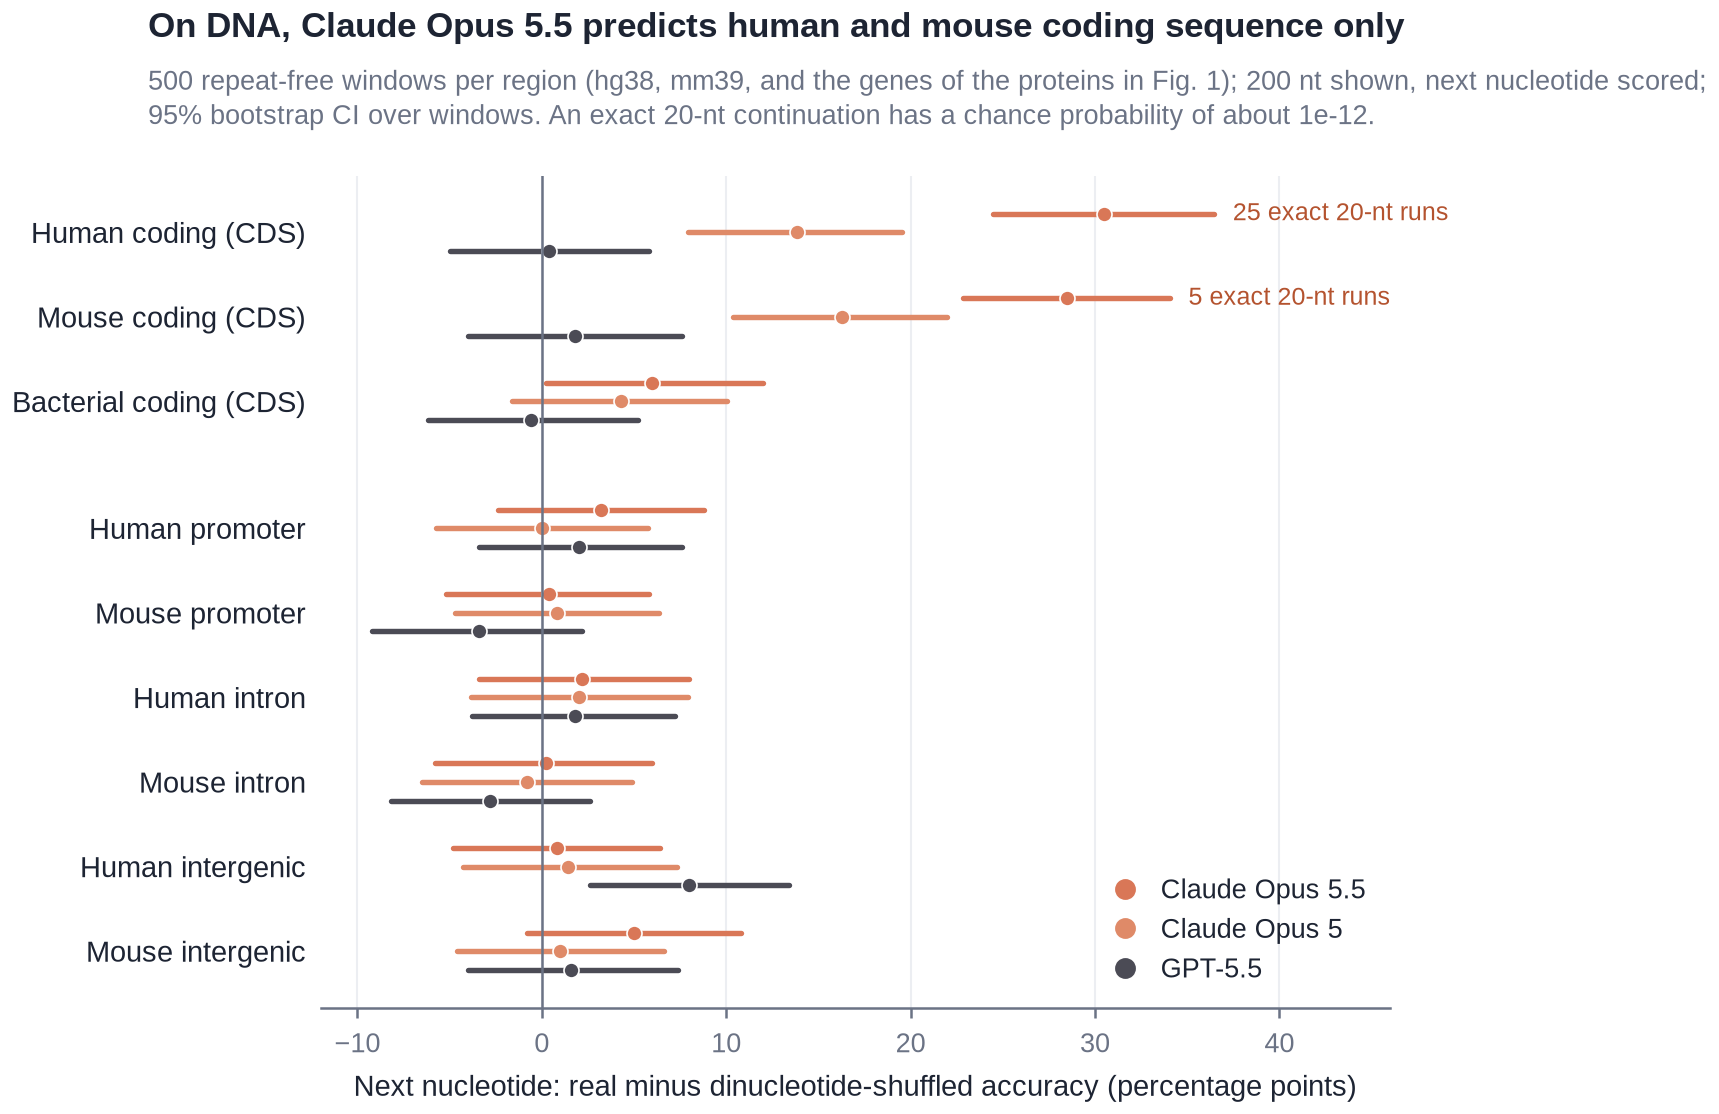
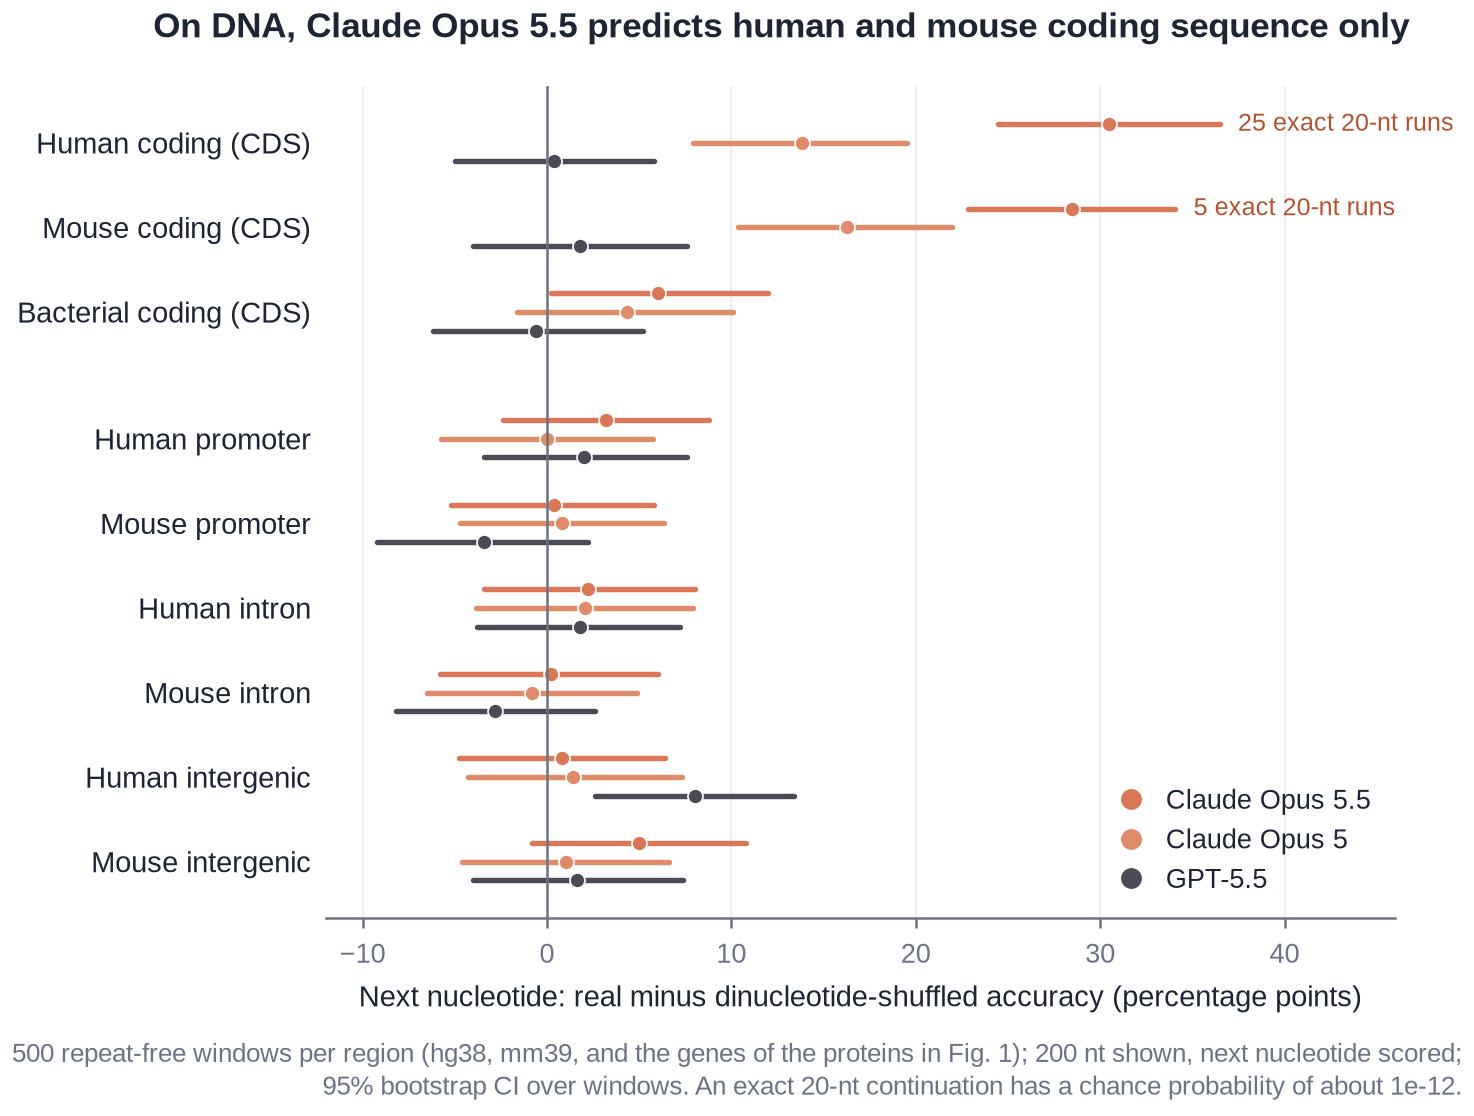
Publish Claude Opus 5.5 was trained on protein sequences at scale
Compare with ProtGPT3: Claude Opus 5.5 matches ProtGPT3-10B on the same
input, shown in Fig 1 and a short table, with all seven protein language
models in a new appendix. Figure notes move below the axes. Move the
post out of preview to /blog/2026/claude-opus-5-5-protein-sequences/ and
redirect the preview URL there.

diff --git a/_pages/bioseq-preview-redirect.html b/_pages/bioseq-preview-redirect.html
@@ -1,0 +1,18 @@
+---
+layout: none
+permalink: /blog/preview/claude-opus-5-5-protein-sequences/
+sitemap: false
+---
+<!doctype html>
+<html lang="en">
+  <head>
+    <meta charset="utf-8" />
+    <title>Claude Opus 5.5 was trained on protein sequences at scale</title>
+    <meta name="robots" content="noindex" />
+    <link rel="canonical" href="{{ '/blog/2026/claude-opus-5-5-protein-sequences/' | absolute_url }}" />
+    <meta http-equiv="refresh" content="0; url={{ '/blog/2026/claude-opus-5-5-protein-sequences/' | relative_url }}" />
+  </head>
+  <body>
+    <p>This post has moved to <a href="{{ '/blog/2026/claude-opus-5-5-protein-sequences/' | relative_url }}">{{ '/blog/2026/claude-opus-5-5-protein-sequences/' | absolute_url }}</a>.</p>
+  </body>
+</html>

diff --git a/_posts/2026-11-16-claude-opus-5-5-protein-sequences.md b/_posts/2026-11-16-claude-opus-5-5-protein-sequences.md
@@ -5,9 +5,6 @@ description: "A next-amino-acid test on proteins nobody has studied, with a shuf
 date: 2026-11-16
 tags: ['AI', 'biology', 'LLM', 'evaluation']
 categories: blog
-permalink: /blog/preview/claude-opus-5-5-protein-sequences/
-preview: true
-sitemap: false
 bibliography: 2026-11-16-claude-opus-5-5-protein-sequences.bib
 
 toc:
@@ -66,7 +63,7 @@ _styles: |
 ---
 
 <div class="bp-lede" markdown="1">
-**Claude Opus 5.5 was trained on protein sequences, at scale.** On bacterial proteins that no paper describes, it predicts the next amino acid far better than on the same proteins shuffled. No other model we tested does, from OpenAI, Google or seven open-weight labs. The signal grows with the number of sequences in a protein's family, even in families with no papers at all, which is what training on sequence data predicts. It appears with Claude Opus 4.7 and jumps with Opus 5.5. Given the same input, Opus 5.5 also scores above protein language models such as ESM C, ESM3 and ProtGPT2.
+**Claude Opus 5.5 was trained on protein sequences, at scale.** On bacterial proteins that no paper describes, it predicts the next amino acid far better than on the same proteins shuffled. No other model we tested does, from OpenAI, Google or seven open-weight labs. The signal grows with the number of sequences in a protein's family, even in families with no papers at all, which is what training on sequence data predicts. It appears with Claude Opus 4.7 and jumps with Opus 5.5. On this test it matches ProtGPT3-10B, the newest and largest open protein language model of its kind, and scores well above smaller ones.
 </div>
 
 ## Motivation
@@ -88,7 +85,7 @@ The proteins come from 167 Pfam "domain of unknown function" families with no so
 ## Results: only Claude Opus 5.5 predicts them
 
 <figure class="bp-figure" markdown="0">
-  <img src="{{ '/assets/img/llm-bioseq-probe/fig1_protein.png' | relative_url }}" alt="Forest plot of the real-minus-shuffled gap for 17 models; Claude Opus 5.5 at +27.4 points, every non-Claude model between 0 and 3.">
+  <img src="{{ '/assets/img/llm-bioseq-probe/fig1_protein.png' | relative_url }}" alt="Forest plot of the real-minus-shuffled gap: Claude Opus 5.5 at +27.4 points and ProtGPT3-10B at +27.7; every other LLM between 0 and 10.">
   <figcaption>Filled points: the chat prompt. Hollow points: raw next-token continuation of the FASTA text, through a completion endpoint or a prefilled reply, for models that allow it.</figcaption>
 </figure>
 
@@ -107,18 +104,16 @@ A model that learned from sequence data should know big families better than sma
 
 ## Comparison with protein language models
 
-Protein language models are trained only on protein sequences, so they give a reference level for the same test. Given the same input as the LLMs, the residues before the cut, they score well below Claude Opus 5.5:
+Protein language models are trained only on protein sequences, so they set a reference level for the same test. The fairest comparison is ProtGPT3<d-cite key="garibbo2026protgpt3"></d-cite>, released in 2026: like an LLM, it reads a protein left to right and predicts the next residue, and at 10 billion parameters it is the largest open model of its kind. Given the same input, Claude Opus 5.5 matches it:
 
-| Model | Input | Real minus shuffled, points (95% CI) |
-|---|---|---|
-| **Claude Opus 5.5** | residues before the cut | **+27.4** (24.7 to 30.0) |
-| ESM C 600M | residues before the cut | +13.0 (10.8 to 15.2) |
-| ProtGPT2 | residues before the cut | +10.2 (8.3 to 12.2) |
-| ESM3-open 1.4B | residues before the cut | +8.5 (6.5 to 10.7) |
-| ESM-2 650M | residues before the cut | +7.0 (5.2 to 8.8) |
-| ESM-2 650M | the whole protein, one residue masked | +34.6 (31.8 to 37.2) |
+| Model | Real minus shuffled, points (95% CI) |
+|---|---|
+| **Claude Opus 5.5** | **+27.4** (24.7 to 30.0) |
+| **ProtGPT3-10B** | **+27.7** (24.2 to 31.1) |
+| ProtGPT3-1.3B | +11.6 (8.9 to 14.4) |
+| ESM C 600M | +13.0 (10.7 to 15.2) |
 
-ESM-2, ESM C and ESM3 are masked models that normally see both sides of a residue, so the left side alone is not their usual setting; with the whole protein, ESM-2 reaches +34.6. ProtGPT2 reads left to right, like an LLM. These are reference levels, not a ranking of the models.
+All models see only the residues before the cut. ProtGPT3-10B gets more answers right on real proteins (38.4% vs 34.9%) but also on shuffled ones (10.7% vs 7.5%), because it knows protein composition better; what each has learned about residue order is the same. ESM C, like other ESM models, normally sees both sides of a residue, so the left side alone is a harder setting for it. Appendix C lists all seven protein language models.
 
 ## Famous proteins and variant ranking
 
@@ -146,7 +141,7 @@ All code, test sets, model outputs and figures are in [llm-bioseq-probe](https:/
   title  = {Claude Opus 5.5 was trained on protein sequences at scale},
   year   = {2026},
   month  = nov,
-  url    = {https://xinmingtu.cn/blog/preview/claude-opus-5-5-protein-sequences/},
+  url    = {https://xinmingtu.cn/blog/2026/claude-opus-5-5-protein-sequences/},
   note   = {Blog post}
 }
 ```
@@ -169,17 +164,30 @@ All code, test sets, model outputs and figures are in [llm-bioseq-probe](https:/
 
 At 158 points in well-studied proteins, each model was asked for the next 200 residues. Opus 5.5 goes past 100 residues 24 times (longest 305), Gemini 4 Carbon 23 times (longest 201), Opus 5 14 times (longest 325). GPT-6.1 Sol never reaches 100 and GPT-5.5 never passes 2.
 
-### C. Robustness
+### C. Protein language models
+
+| Model | Reads | Input | Real | Shuffled | Real minus shuffled, points (95% CI) |
+|---|---|---|---|---|---|
+| ProtGPT3-10B | left to right | residues before the cut | 38.4% | 10.7% | +27.7 (24.2 to 31.1) |
+| ESM C 600M | both sides | residues before the cut | 24.1% | 11.2% | +13.0 (10.7 to 15.2) |
+| ProtGPT3-1.3B | left to right | residues before the cut | 22.3% | 10.7% | +11.6 (8.9 to 14.4) |
+| ProtGPT2 | left to right | residues before the cut | 19.0% | 8.8% | +10.2 (8.3 to 12.2) |
+| ESM3-open 1.4B | both sides | residues before the cut | 19.6% | 11.0% | +8.5 (6.4 to 10.7) |
+| ESM-2 650M | both sides | residues before the cut | 17.3% | 10.3% | +7.0 (5.2 to 8.9) |
+| ESM-2 650M | both sides | residues on both sides of the cut | 45.7% | 11.1% | +34.6 (31.8 to 37.3) |
+
+The last row is fill-in-the-blank rather than continuation: ESM-2 also sees the residues after the cut, which the LLMs never get. Every model first passed a sanity check on well-known proteins. Continuing ubiquitin and hemoglobin β from the left, ProtGPT3-10B gets 100% and 84% of residues right; with the whole protein and one residue masked, ESM-2 gets 80% of ubiquitin, ESM C and ESM3-open 100%. Masks are set on token ids, because the ESM SDK's "_" character is not ESM C's mask token. ProtGPT2 uses multi-residue tokens, so a residue's probability is the sum over the tokens that start with it; ProtGPT3 uses one token per residue.
+
+### D. Robustness
 
 - **Prompt format.** Asking Opus 5.5 to copy the sequence and then continue gives the same gap as the standard prompt (19.3 vs 19.8 points on the same subset of questions).
 - **Refusals.** Non-answers are excluded and counted: 1% for Opus 5.5. Counting them as wrong moves its gap by under 1 point. GPT-4o, DeepSeek, Qwen, Kimi, GLM and gpt-oss often declined to guess a sequence; a best-guess prompt made them answer and did not change the picture.
-- **Protein language models.** Every model passed a sanity check first: with the whole protein and one residue masked at a time, ESM-2 gets 80% of ubiquitin right, ESM C and ESM3-open 100%. Masks are set on token ids; the ESM SDK's "_" character is not ESM C's mask token. ProtGPT2 uses multi-residue tokens, so a residue's probability is the sum over the tokens that start with it.
 - **A first round.** A smaller run of 20 models on 37 families, half well-known and half obscure, gave the same picture and set the design of the main run.
 
-### D. Methods
+### E. Methods
 
 Each protein is cut at 5 random points inside its Pfam domain; the model sees the start in FASTA format (60-character lines) and returns the next 10 residues; only the first is scored. The shuffled copy uses a fixed seed per protein. Intervals are 95% bootstraps over families (10,000 resamples), the main test a one-sided sign-flip permutation test over families. The analysis plan for the main run was written before it. Total API cost was about $450.
 
-### E. Safety behaviour seen along the way
+### F. Safety behaviour seen along the way
 
 Gemini 4 Carbon blocked about 75% of DNA prompts before generating anything. OpenAI rejected 23 GPT-6 requests as possible biological misuse. Claude Sonnet 4.5 refused 97% of requests that prefilled its reply with a protein sequence.
